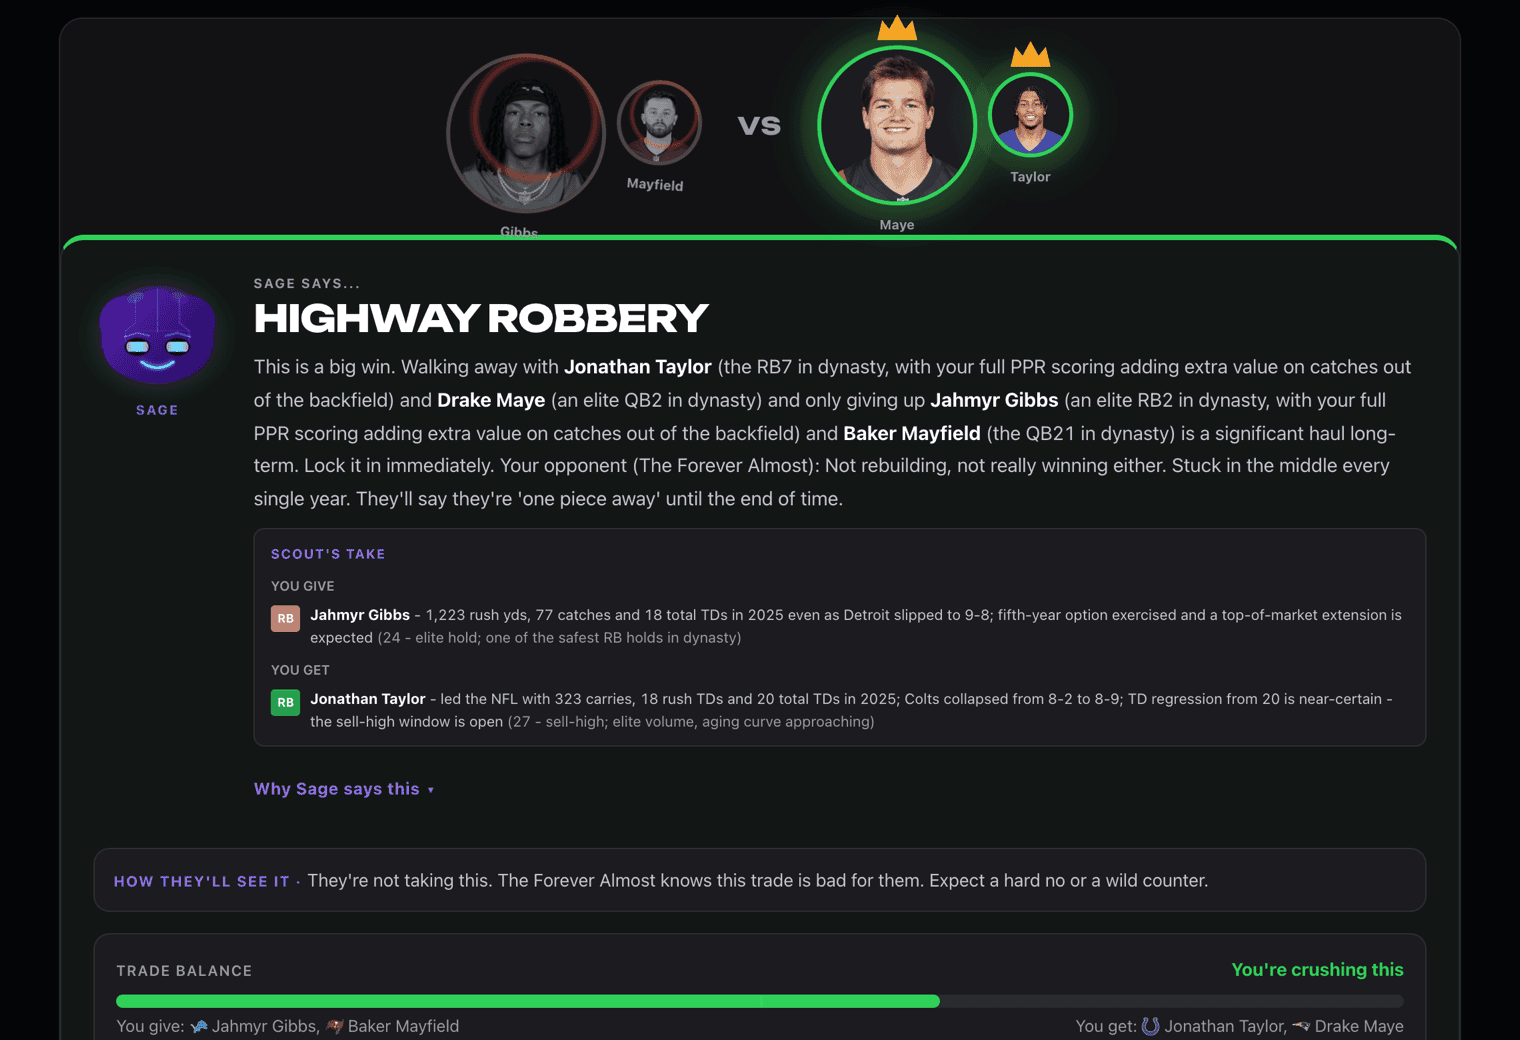
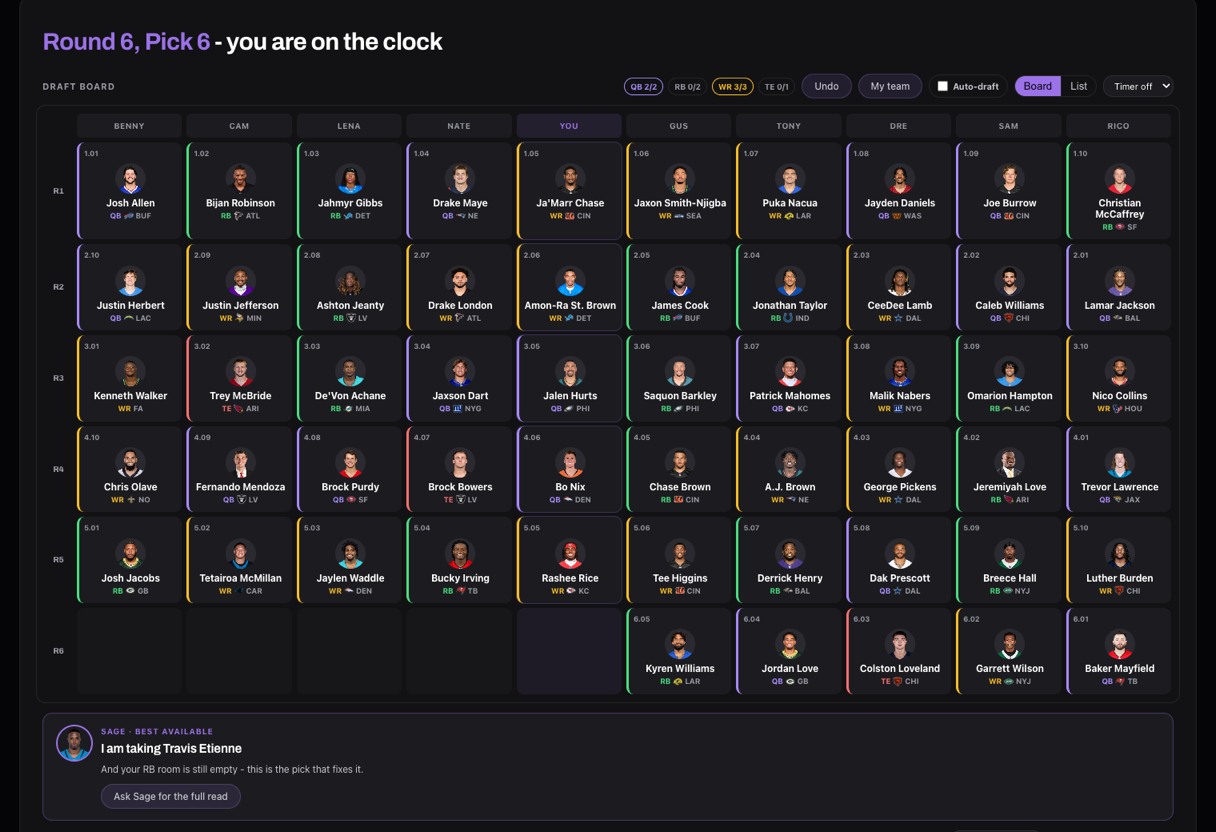
War room en calma: un solo acento, panel del pick a lo esencial, y el hero muestra el war room real
- Caja de Sage: cara, la llamada y una linea de por que; los pros/contras
  salieron de ahi (duplicaban la barra del pick y todo gritaba a la vez)
- Barra del pick: nombre + UNA linea de meta (pos, ADP, tier, direccion,
  VORP en palabras), narrativa maximo 2 en marco quieto, pros/contras
  recortados a los 2 mas fuertes por lado y link 'Full player card' para
  el resto; el scouting asincrono respeta el recorte
- Header del board: una fila tranquila (Undo, My team, Auto-draft, vista,
  timer); Restart y Settings viven al pie, la leyenda de colores se fue
  (cada celda ya nombra su posicion)
- Tablero: celdas en superficie neutra con solo el borde fino de posicion;
  el unico acento del board es la celda ON THE CLOCK; el outline de tus
  picks baja a un susurro
- Cola vacia ya no ocupa fila: el + de cada jugador es el afford; solo
  reaparece con jugadores o con el aviso de snipe
- hero-product: captura real del war room (tablero snake con picks, 'you
  are on the clock' y la llamada de Sage) en JPEG optimizado de 172KB; el
  PNG queda con la misma toma para HTML cacheado viejo; recorte movil
  legible (titular + primera fila del board); og.png anotado para fase 2

diff --git a/public/app.js b/public/app.js
@@ -8505,11 +8505,13 @@ function _pcCols(pros,cons){
     +'<div>'+pros.map(function(x){return '<div style="color:var(--muted2);margin-bottom:3px"><span style="color:var(--green);font-weight:800">+</span> '+x+'</div>';}).join('')+'</div>'
     +'<div>'+cons.map(function(x){return '<div style="color:var(--muted2);margin-bottom:3px"><span style="color:var(--red);font-weight:800">&minus;</span> '+x+'</div>';}).join('')+'</div></div>';
 }
-function mdProsConsHtml(p){
+function mdProsConsHtml(p,lim){
   var pc=mdProsCons(p);
   if(!pc.pros.length&&!pc.cons.length)return '';
   mdScoutQueue(p); // web scouting arrives async and upgrades the columns in place
-  return '<div class="pcwrap" data-pcid="'+p.id+'">'+_pcCols(pc.pros,pc.cons)+'</div>';
+  var pros=lim?pc.pros.slice(0,lim):pc.pros;
+  var cons=lim?pc.cons.slice(0,lim):pc.cons;
+  return '<div class="pcwrap" data-pcid="'+p.id+'"'+(lim?' data-pclim="'+lim+'"':'')+'>'+_pcCols(pros,cons)+'</div>';
 }
 // Live web scouting: the server researches each player across the internet
 // (7-day shared cache) and the fresh takes merge into the columns on arrival.
@@ -8533,9 +8535,12 @@ function mdScoutQueue(p){
     var pros=mix(doc.pros,local.pros);seen={};
     var cons=mix(doc.cons||[],local.cons);
     els.forEach(function(w){
-      w.innerHTML=_pcCols(pros,cons)
-        +(doc.college?'<div style="font-size:11px;color:var(--muted2);margin-top:6px;padding-top:6px;border-top:1px solid var(--border)"><strong style="color:var(--accent-bright)">College:</strong> '+doc.college+'</div>':'')
-        +'<div style="font-size:9.5px;color:var(--muted);margin-top:4px">Includes this week\'s scouting from around the web.</div>';
+      // a limited wrap (the pick bar) keeps its cap and skips the extras -
+      // the full columns still land on unlimited wraps and the player card
+      var lim=parseInt(w.dataset.pclim||'0',10)||0;
+      w.innerHTML=_pcCols(lim?pros.slice(0,lim):pros,lim?cons.slice(0,lim):cons)
+        +(lim?'':(doc.college?'<div style="font-size:11px;color:var(--muted2);margin-top:6px;padding-top:6px;border-top:1px solid var(--border)"><strong style="color:var(--accent-bright)">College:</strong> '+doc.college+'</div>':'')
+        +'<div style="font-size:9.5px;color:var(--muted);margin-top:4px">Includes this week\'s scouting from around the web.</div>');
       // Fade the fresh scouting in so it never hard-jumps the columns
       w.style.animation='none';void w.offsetWidth;w.style.animation='tmPcFade .35s ease';
     });
@@ -8579,13 +8584,14 @@ function mdShowChoices(round){
     var openers=['I am taking','My pick is','Lock in','Give me','No hesitation:'];
     var sage=document.getElementById('md-sage');
     sage.style.display='block';
-    var pcHtml=mdProsConsHtml(rec);
+    // Rec box stays SHORT: face, the call, one why line, the ask button. The
+    // pros/cons live in the pick bar when you actually weigh a player - both
+    // at once made the screen shout.
     sage.innerHTML='<div style="display:flex;gap:10px;align-items:flex-start">'
       +'<img src="https://sleepercdn.com/content/nfl/players/thumb/'+rec.id+'.jpg" style="width:46px;height:46px;border-radius:50%;object-fit:cover;border:2px solid var(--accent-bright)" onerror="this.style.display=\'none\'">'
       +'<div style="min-width:0;flex:1"><div style="font-size:10px;font-weight:700;color:var(--accent-bright);text-transform:uppercase;letter-spacing:.08em;margin-bottom:2px">Sage · '+MD_STRATS[MD.strat].name+'</div>'
       +'<div style="font-family:var(--font-head);font-size:15px;font-weight:700;color:var(--text)">'+openers[(MD.pickIdx*7)%openers.length]+' '+rec.name+'</div>'
       +'<div style="font-size:12px;color:var(--muted2);line-height:1.6;margin-top:4px">'+r.why+'</div>'
-      +pcHtml
       // The full Sage call is user-initiated only: one API request per click,
       // never one per hover or per render. His answer survives re-renders of
       // this box for the same pick via the MD.sageLive cache.
@@ -8602,7 +8608,7 @@ function mdShowChoices(round){
     var d=document.createElement('div');
     d.className='md-ch-row';
     var posC={QB:'#a78bfa',RB:'#4ade80',WR:'#fbbf24',TE:'#f87171'}[p.pos]||'#94a3b8';
-    d.style.cssText='display:flex;align-items:center;gap:8px;padding:9px 11px 9px 8px;background:var(--surface2);border:1px solid '+(p===rec?'rgba(155,114,232,.55)':'var(--border)')+';border-left:4px solid '+posC+';border-radius:10px;cursor:pointer;transition:all .15s;'+(p===rec?'box-shadow:0 0 16px rgba(155,114,232,.18);':'');
+    d.style.cssText='display:flex;align-items:center;gap:8px;padding:9px 11px 9px 8px;background:var(--surface2);border:1px solid '+(p===rec?'rgba(155,114,232,.55)':'var(--border)')+';border-left:3px solid '+posC+';border-radius:10px;cursor:pointer;transition:all .15s;';
     // TAP MODEL: the card body (face, name, anywhere) opens the player card.
     // Drafting happens ONLY through the select circle on the right (and the
     // Draft button), so a stray tap can never draft anyone by accident.
@@ -8773,10 +8779,11 @@ function mdRenderQueue(){
   var bd=document.getElementById('md-board');
   var boardOn=bd&&bd.style.display!=='none';
   if(!MD.queue.length){
-    if(boardOn){
+    // an empty queue earns no screen space: the + on every row is the
+    // affordance, and the snipe callout is the only reason to show the bar
+    if(boardOn&&MD.lastSnipe){
       wrap.style.display='flex';
-      box.innerHTML=(MD.lastSnipe?'<div style="font-size:11.5px;color:var(--red);font-weight:600;margin-bottom:4px">'+MD.lastSnipe+'</div>':'')
-        +'<span style="font-size:11.5px;color:var(--muted)">Empty. Tap the <strong style="color:var(--muted2)">+</strong> on any player to line him up. Your queue drafts first if the clock hits zero.</span>';
+      box.innerHTML='<div style="font-size:11.5px;color:var(--red);font-weight:600">'+MD.lastSnipe+'</div>';
     }else wrap.style.display='none';
     return;
   }
@@ -8927,46 +8934,47 @@ function mdRenderDraftBar(){
   if(!MD.selChoice||!MD.onClock){bar.style.display='none';return;}
   var p=MD.selChoice;
   var _nmE=p.name.replace(/'/g,"\\'");
-  // market meta for the decision line: ADP, value tier (words, never the raw
-  // number) and the 30-day direction
+  // ONE quiet meta line under the name: ADP, tier word, direction, VORP word.
+  // Everything deeper (full stats, news, trades) lives one click away on the
+  // player card - the bar must read at a glance, not compete with the board.
   var _fc=ktcFull[p.id]||{};
-  var _tier=ktcById[p.id]?playerTierLabel(ktcById[p.id],p.id).label:'';
+  var _tier=ktcById[p.id]?playerTierLabel(ktcById[p.id],p.id).short:'';
   var _t30=_fc.trend30Day||0;
   var _tw=_t30>250?'rising fast':_t30>60?'rising':_t30<-250?'falling fast':_t30<-60?'falling':'steady';
-  var _twc=_t30>60?'var(--green)':_t30<-60?'var(--red)':'var(--muted2)';
-  var _meta=[];
+  var _twc=_t30>60?'var(--green)':_t30<-60?'var(--red)':'var(--muted)';
+  var _meta=[p.pos+' · '+(p.team||'FA')];
   if(p.adp)_meta.push('ADP '+(+p.adp).toFixed(1));
   if(_tier)_meta.push(_tier);
   if(_tier||p.adp)_meta.push('<span style="color:'+_twc+'">'+_tw+'</span>');
-  // VORP in words: the gap between him and the replacement-level player still
-  // on the board at his position (never a raw number, per the house rule)
   var _rpl=MD.replDv&&MD.replDv[p.pos];
   if(_rpl!=null&&p.dv){
     var _gap=p.dv-_rpl;
-    _meta.push(_gap>=2400?'massive edge over a replacement '+p.pos
-      :_gap>=1200?'big edge over a replacement '+p.pos
-      :_gap>=400?'moderate edge over a replacement '+p.pos
-      :_gap>=0?'thin edge over a replacement '+p.pos
-      :'below replacement level at '+p.pos);
+    _meta.push(_gap>=2400?'massive edge vs replacement'
+      :_gap>=1200?'big edge vs replacement'
+      :_gap>=400?'moderate edge vs replacement'
+      :_gap>=0?'thin edge vs replacement'
+      :'below replacement level');
   }
-  // curated draft narratives: the historical flags that apply to THIS player
-  var _nar=mdNarratives(p);
+  // curated draft narratives: max two, quiet frame - the label is the only
+  // accent so the block informs without shouting
+  var _nar=mdNarratives(p).slice(0,2);
   var _narHtml=_nar.length
-    ?'<div style="margin-top:8px;padding:9px 12px;background:var(--surface2);border-left:3px solid var(--accent-bright);border-radius:8px">'
+    ?'<div style="margin-top:9px;padding:8px 11px;background:var(--surface2);border-left:2px solid var(--border2);border-radius:8px">'
       +'<div style="font-size:9.5px;font-weight:700;color:var(--accent-bright);text-transform:uppercase;letter-spacing:.08em;margin-bottom:3px">Keep in mind</div>'
       +_nar.map(function(n){return '<div style="font-size:11.5px;color:var(--muted2);line-height:1.55;margin-top:3px">'+n+'</div>';}).join('')
       +'</div>'
     :'';
   bar.style.display='block';
   bar.innerHTML='<div style="display:flex;align-items:center;gap:10px">'
-    +'<img src="'+mdFaceUrl(p)+'" style="width:30px;height:30px;border-radius:50%;object-fit:cover;cursor:pointer'+(p.pos==='DEF'?';object-fit:contain':'')+'" title="View player card" onclick="openPlayerCard(\''+p.id+'\',\''+_nmE+'\')" onerror="this.style.display=\'none\'">'
-    +'<div style="flex:1;font-size:13px;font-weight:700"><span style="cursor:pointer" onclick="openPlayerCard(\''+p.id+'\',\''+_nmE+'\')">'+p.name+'</span> <span style="font-size:10px;color:var(--muted)">'+p.pos+' · '+(p.team||'FA')+'</span></div>'
+    +'<img src="'+mdFaceUrl(p)+'" style="width:34px;height:34px;border-radius:50%;object-fit:cover;cursor:pointer;flex:none'+(p.pos==='DEF'?';object-fit:contain':'')+'" title="View player card" onclick="openPlayerCard(\''+p.id+'\',\''+_nmE+'\')" onerror="this.style.display=\'none\'">'
+    +'<div style="flex:1;min-width:0"><div style="font-size:13.5px;font-weight:700;white-space:nowrap;overflow:hidden;text-overflow:ellipsis"><span style="cursor:pointer" onclick="openPlayerCard(\''+p.id+'\',\''+_nmE+'\')">'+p.name+'</span></div>'
+    +'<div style="font-size:10.5px;color:var(--muted);white-space:nowrap;overflow:hidden;text-overflow:ellipsis">'+_meta.join(' · ')+'</div></div>'
     +'<button class="btn-sm md-sage-ask" onclick="mdAskSageLive(\''+p.id+'\')" title="Sage weighs this exact pick against your roster">Ask Sage</button>'
     +'<button class="btn-sm" onclick="MD.selChoice=null;mdShowChoices(MD.curRound||1)">Cancel</button>'
     +'<button class="btn-load" style="width:auto;padding:9px 22px" onclick="mdConfirmDraft()">Draft '+p.name.split(' ').slice(-1)[0]+'</button></div>'
-    +(_meta.length?'<div style="font-size:11px;color:var(--muted2);margin-top:6px">'+_meta.join(' · ')+'</div>':'')
     +_narHtml
-    +mdProsConsHtml(p); // one click on any player = his pros and cons, right here
+    +mdProsConsHtml(p,2) // the two strongest each way; the card has the rest
+    +'<div style="margin-top:7px;font-size:11px"><span style="color:var(--accent-bright);cursor:pointer;font-weight:600" onclick="openPlayerCard(\''+p.id+'\',\''+_nmE+'\')">Full player card &rarr;</span></div>';
 }
 function mdConfirmDraft(){
   var p=MD.selChoice;
@@ -9143,7 +9151,9 @@ function mdRenderBoard(){
     mdRenderQueue();
     return;
   }
-  var posBg={QB:'rgba(167,139,250,.16)',RB:'rgba(74,222,128,.14)',WR:'rgba(251,191,36,.14)',TE:'rgba(248,113,113,.14)',K:'rgba(56,189,248,.13)',DEF:'rgba(148,163,184,.13)'};
+  // Cells stay on the neutral surface; the position speaks through the thin
+  // left border and the pos label only. One accent on the whole board: the
+  // ON THE CLOCK cell. Tinted fills everywhere made the grid read as noise.
   var posBorder={QB:'#a78bfa',RB:'#4ade80',WR:'#fbbf24',TE:'#f87171',K:'#38bdf8',DEF:'#94a3b8'};
   var byCell={};
   MD.picks.forEach(function(pk){byCell[pk.round+'-'+pk.slot]=pk;});
@@ -9175,7 +9185,7 @@ function mdRenderBoard(){
         var face=pk.p.id&&String(pk.p.id).indexOf('fb_')!==0
           ?'<img class="mdb-face" src="'+mdFaceUrl(pk.p)+'" alt="" loading="lazy" title="View player card"'+(pk.p.pos==='DEF'?' style="object-fit:contain"':'')+' onclick="event.stopPropagation();openPlayerCard(\''+pk.p.id+'\',\''+_nmEsc+'\')" onerror="this.style.display=\'none\'">'
           :'';
-        html+='<div class="mdb-cell'+(pk.mine?' mdb-minepick':'')+(isLast?' mdb-latest':'')+'" title="Click to change this pick" onclick="mdEditPick('+r+','+s2+')" style="cursor:pointer;background:'+(posBg[pos]||'var(--surface2)')+';border-left:3px solid '+(posBorder[pos]||'var(--border)')+'">'
+        html+='<div class="mdb-cell'+(pk.mine?' mdb-minepick':'')+(isLast?' mdb-latest':'')+'" title="Click to change this pick" onclick="mdEditPick('+r+','+s2+')" style="cursor:pointer;background:var(--surface2);border-left:3px solid '+(posBorder[pos]||'var(--border)')+'">'
           +'<div class="mdb-pickno">'+pk.round+'.'+(pk.pickNo<10?'0':'')+pk.pickNo+'</div>'
           +'<div class="mdb-row">'+face
           +'<div class="mdb-txt"><div class="mdb-name">'+short+'</div>'

diff --git a/public/index.html b/public/index.html
@@ -18,14 +18,14 @@ window.tmTrack=function(ev,props){try{if(window.posthog&&posthog.capture)posthog
 <meta property="og:description" content="Mock drafts personalized to your league. Describe your room or connect Sleeper, then draft with Sage advising every pick.">
 <meta property="og:type" content="website">
 <meta property="og:url" content="https://trademindff.com/">
-<meta property="og:image" content="https://trademindff.com/og.png?v=2026072482">
+<meta property="og:image" content="https://trademindff.com/og.png?v=2026072483">
 <meta property="og:image:width" content="1200">
 <meta property="og:image:height" content="630">
 <meta property="og:site_name" content="TradeMind">
 <meta name="twitter:card" content="summary_large_image">
 <meta name="twitter:title" content="TradeMind - The Mock Draft That Drafts Like Your League">
 <meta name="twitter:description" content="Mock drafts that behave like YOUR league, with Sage advising every pick.">
-<meta name="twitter:image" content="https://trademindff.com/og.png?v=2026072482">
+<meta name="twitter:image" content="https://trademindff.com/og.png?v=2026072483">
 <link rel="canonical" href="https://trademindff.com/">
 <script defer src="/_vercel/insights/script.js"></script>
 <link rel="preconnect" href="https://fonts.googleapis.com">
@@ -33,14 +33,14 @@ window.tmTrack=function(ev,props){try{if(window.posthog&&posthog.capture)posthog
 <link href="https://fonts.googleapis.com/css2?family=Archivo:wght@500;600;700;800;900&display=swap" rel="stylesheet">
 <!-- The ?v=111 stamp cache-busts CSS/JS on deploy. Bump it whenever styles.css,
      v11/v12.css or app.js change, or returning visitors keep the old files. -->
-<link rel="stylesheet" href="/styles.css?v=2026072482">
+<link rel="stylesheet" href="/styles.css?v=2026072483">
 <!-- v12 (Apple design, Archivo headings) is the live site. Applied by default via
      class="v12" on <html> above + this stylesheet. v12.css @imports v11.css. -->
-<link rel="stylesheet" href="/v12.css?v=2026072482" id="skin-default">
+<link rel="stylesheet" href="/v12.css?v=2026072483" id="skin-default">
 <!-- Loads last so the cross-screen consistency pass (radii, type scale, accent
      placement on Community/Research/My League) settles the cascade over both
      styles.css and the v11/v12 skin without needing !important. -->
-<link rel="stylesheet" href="/theme.css?v=2026072482">
+<link rel="stylesheet" href="/theme.css?v=2026072483">
 <script>
 // The older design concepts (v2-v11) stay previewable with ?vN for side-by-side
 // comparison. Loading one swaps out the default v12 baseline and shows a banner so
@@ -52,7 +52,7 @@ if(_skin){
   var _base=document.getElementById('skin-default');
   if(_base&&_base.parentNode)_base.parentNode.removeChild(_base); // and its stylesheet
   _el.classList.add(_skin[1]);
-  document.write('<link rel="stylesheet" href="/'+_skin[1]+'.css?v=2026072482">');
+  document.write('<link rel="stylesheet" href="/'+_skin[1]+'.css?v=2026072483">');
   window.addEventListener('DOMContentLoaded',function(){
     var pill=document.createElement('div');
     pill.style.cssText='position:fixed;bottom:16px;left:50%;transform:translateX(-50%);z-index:99999;background:#131210;color:#f5efe3;font:700 12px sans-serif;padding:10px 18px;border-radius:100px;box-shadow:0 6px 18px rgba(0,0,0,.35);display:flex;gap:12px;align-items:center';
@@ -249,13 +249,14 @@ window.addEventListener('load',function(){window.scrollTo(0,0);});
     </div>
    </div>
 
-   <!-- RIGHT: the product itself. A real verdict on a real 2-for-2 trade,
-        tilted and faded into the background so the column has no hard bottom
-        edge and no empty black left over beside the copy. Decorative: the
-        headline already carries the meaning, so alt stays empty for
-        screen readers. -->
+   <!-- RIGHT: the product itself. A real war room mid-draft - the snake board
+        with picks, "you are on the clock", and Sage's call - so the image
+        tells the same story as the headline. Tilted and faded into the
+        background by CSS. Decorative: the headline already carries the
+        meaning, so alt stays empty for screen readers. (hero-product.png is
+        the same shot, kept for older cached HTML that still requests it.) -->
    <div class="hero-shot" aria-hidden="true">
-     <img src="/hero-product.png?v=1" width="1520" height="1040" alt="" decoding="async" fetchpriority="high">
+     <img src="/hero-product.jpg?v=2" width="1520" height="1040" alt="" decoding="async" fetchpriority="high">
    </div>
   </div>
 </div>
@@ -1108,16 +1109,17 @@ window.addEventListener('load',function(){window.scrollTo(0,0);});
         <div id="md-board" style="display:none">
           <div id="md-status" style="font-size:13px;font-weight:700;color:var(--text);margin-bottom:10px"></div>
           <div id="md-lg-note" style="display:none;font-size:11px;color:var(--accent-bright);margin:-4px 0 10px;line-height:1.5"></div>
-          <div style="display:flex;align-items:center;justify-content:space-between;flex-wrap:wrap;gap:8px;margin-bottom:6px">
-            <div style="font-size:11px;font-weight:700;color:var(--muted);text-transform:uppercase;letter-spacing:.08em">Draft board <span style="font-weight:600;text-transform:none;letter-spacing:0">· cards show round.pick</span></div>
-            <button class="btn-sm" id="md-undo-btn" onclick="mdUndo()" title="Take back your last pick (AI picks after it come back too)">Undo my pick</button>
-            <button class="btn-sm md-solo-ctl" onclick="mdRestartDraft()" title="Same settings, fresh board">Restart</button>
-            <button class="btn-sm md-solo-ctl" onclick="mdBackToSetup()" title="Change teams, rounds, timer or strategy">Settings</button>
+          <!-- One calm control row: label left, five controls right. Restart
+               and Settings live at the foot of the board; the position color
+               legend went away (every cell already names its position). -->
+          <div style="display:flex;align-items:center;flex-wrap:wrap;gap:8px;margin-bottom:8px">
+            <div style="font-size:11px;font-weight:700;color:var(--muted);text-transform:uppercase;letter-spacing:.08em;margin-right:auto">Draft board</div>
+            <span id="md-needs" style="display:flex;gap:6px;font-size:10px;font-weight:700"></span>
+            <button class="btn-sm" id="md-undo-btn" onclick="mdUndo()" title="Take back your last pick (AI picks after it come back too)">Undo</button>
             <button class="btn-sm md-solo-ctl" onclick="mdShowMyRoster()" title="See the players you've drafted so far">My team</button>
             <label class="md-solo-ctl" title="Sage drafts your picks for you until you turn it off" style="display:inline-flex;align-items:center;gap:6px;font-size:11px;font-weight:700;color:var(--muted2);cursor:pointer;padding:5px 10px;border:1px solid var(--border);border-radius:100px">
               <input type="checkbox" id="md-auto" onchange="mdAutoToggle(this.checked)" style="accent-color:var(--accent-bright);margin:0">Auto-draft
             </label>
-            <span id="md-needs" style="display:flex;gap:6px;font-size:10px;font-weight:700"></span>
             <span style="display:inline-flex;border:1px solid var(--border);border-radius:100px;overflow:hidden;font-size:10px;font-weight:700;text-transform:uppercase;letter-spacing:.05em">
               <button class="md-view-btn" data-view="board" onclick="mdSetView('board')" style="background:var(--accent-bright);border:none;color:#0d0817;padding:5px 11px;cursor:pointer">Board</button>
               <button class="md-view-btn" data-view="list" onclick="mdSetView('list')" style="background:none;border:none;color:var(--muted2);padding:5px 11px;cursor:pointer;border-left:1px solid var(--border)">List</button>
@@ -1125,12 +1127,6 @@ window.addEventListener('load',function(){window.scrollTo(0,0);});
             <select id="md-clock-live" class="opp-select" style="width:auto;font-size:11px;padding:5px 9px" onchange="mdSetClockLive(this.value)" title="Pick timer">
               <option value="0">Timer off</option><option value="30">30s</option><option value="60">60s</option><option value="90">90s</option><option value="120">2 min</option>
             </select>
-            <div style="display:flex;gap:10px;font-size:10px;color:var(--muted);align-items:center">
-              <span><span style="display:inline-block;width:8px;height:8px;border-radius:2px;background:#a78bfa;margin-right:3px"></span>QB</span>
-              <span><span style="display:inline-block;width:8px;height:8px;border-radius:2px;background:#4ade80;margin-right:3px"></span>RB</span>
-              <span><span style="display:inline-block;width:8px;height:8px;border-radius:2px;background:#fbbf24;margin-right:3px"></span>WR</span>
-              <span><span style="display:inline-block;width:8px;height:8px;border-radius:2px;background:#f87171;margin-right:3px"></span>TE</span>
-            </div>
           </div>
           <div id="md-draftboard" class="mdb-wrap"></div>
           <div id="md-queue-wrap" style="display:none;align-items:center;gap:8px;flex-wrap:wrap;margin-top:10px;padding:9px 12px;background:var(--surface2);border:1px solid var(--border);border-radius:10px">
@@ -1628,7 +1624,7 @@ window.addEventListener('load',function(){window.scrollTo(0,0);});
   </div>
 </div>
 
-<script src="/app.js?v=2026072482"></script>
+<script src="/app.js?v=2026072483"></script>
 
 <!-- PLAYER CARD MODAL -->
 <div id="player-modal" class="pm-overlay" onclick="if(event.target===this)closePlayerCard()">

diff --git a/public/styles.css b/public/styles.css
@@ -1137,7 +1137,9 @@ footer{padding:var(--sp-section) 1.5rem 2.5rem;border-top:1px solid var(--border
 .mdb-pickno{font-size:9px;font-weight:700;color:var(--muted);margin-bottom:3px}
 .mdb-name{font-weight:700;color:var(--text);font-size:12px;line-height:1.25;white-space:nowrap;overflow:hidden;text-overflow:ellipsis}
 .mdb-sub{font-size:9.5px;font-weight:700;margin-top:1px;display:flex;align-items:center;gap:3px;justify-content:center}
-.mdb-cell.mdb-minepick{outline:1.5px solid rgba(155,114,232,.55)}
+/* Your picks: a quiet outline, not a second accent - the YOU header and the
+   on-clock cell already mark the column, and purple stays on the active pick */
+.mdb-cell.mdb-minepick{outline:1px solid rgba(155,114,232,.3)}
 .mdb-cell.mdb-latest{animation:mdbPop .45s cubic-bezier(.2,1.6,.4,1) both}
 @keyframes mdbPop{0%{transform:scale(.7);opacity:0}100%{transform:scale(1);opacity:1}}
 .md-cols{display:block}
@@ -1931,11 +1933,11 @@ html{scroll-padding-top:76px}
   .hero-chip{font-size:11px;padding:5px 10px}
   /* The fixed bottom bar is ~56px: nothing in the hero may end under it. */
   .hero-inner{padding-bottom:calc(24px + env(safe-area-inset-bottom,0px))}
-  /* Shrunk to phone width the whole panel becomes unreadable grey noise. Show a
-     tight letterbox of just the verdict header instead: the VS matchup avatars and
-     the "HIGHWAY ROBBERY" headline - the two parts that read at a glance and carry
-     the product's promise. It fades out right where the body copy would start, so
-     no sub-6px paragraph noise ever appears. */
+  /* Shrunk to phone width the whole board becomes unreadable grey noise. Show a
+     tight letterbox of the top of the shot instead: the "you are on the clock"
+     headline and the first row of the draft board - the parts that read at a
+     glance and carry the product's promise. It fades out before the cells turn
+     into sub-6px noise. */
   .hero-shot{
     overflow:hidden;max-height:150px;
     border:1px solid rgba(255,255,255,.09);border-radius:12px;
